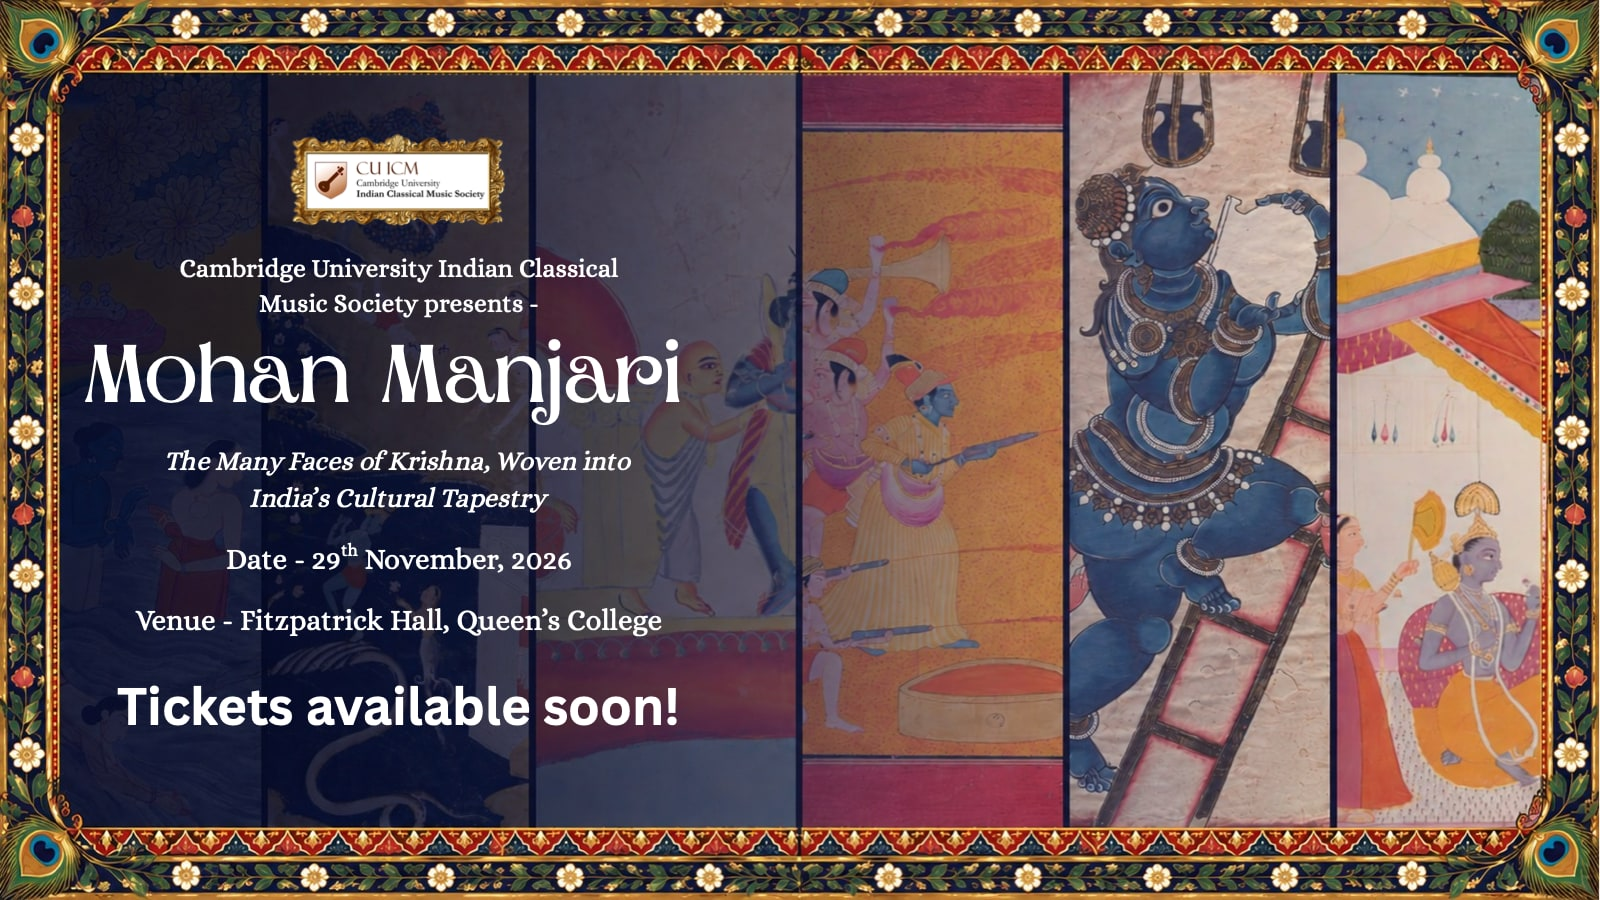
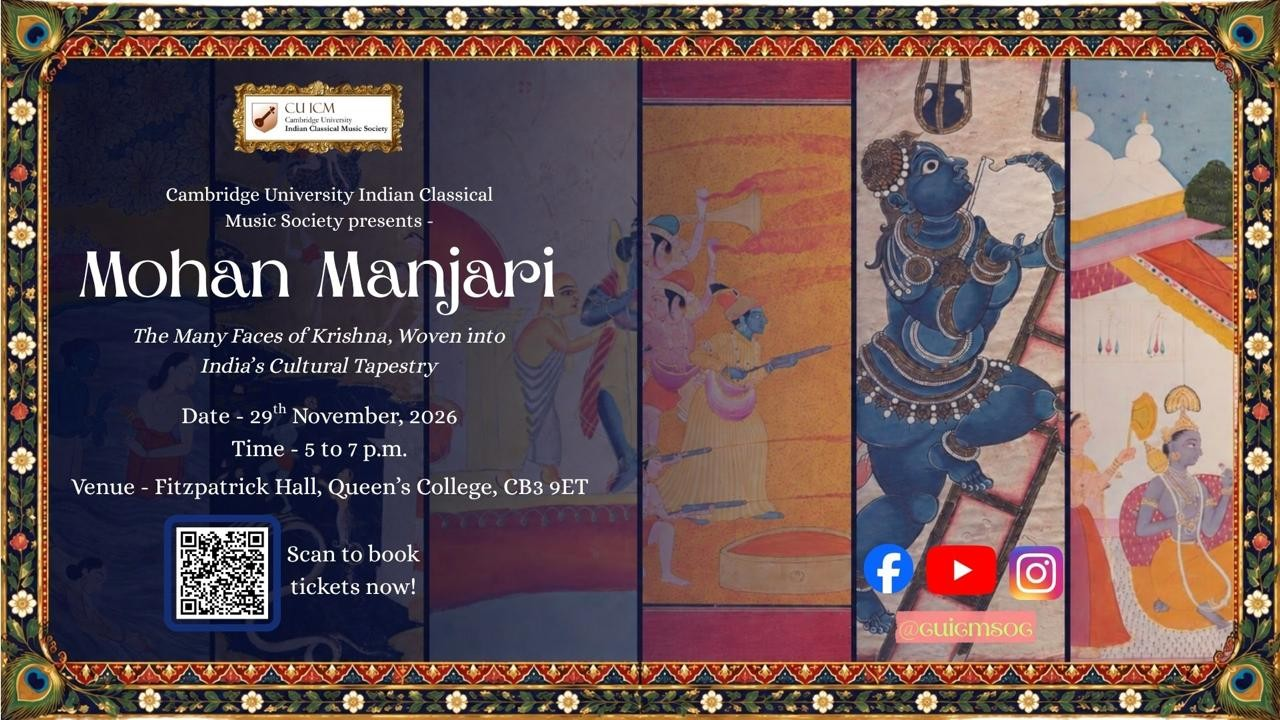
Mohan Manjari: new poster and refund wording (#60)
Replaces the event image with the updated poster (time, QR code for
booking, social handle) and changes 'mail' to 'e-mail us' in the
refund policy.

diff --git a/src/content/events/mohan-manjari.md b/src/content/events/mohan-manjari.md
@@ -14,13 +14,13 @@ venue:
   mapUrl: https://maps.app.goo.gl/d3jBHyTjCt9DFBXw5
 image:
   src: ../../assets/images/mohan-manjari-poster.jpg
-  alt: Poster for Mohan Manjari, framed by a floral border with peacock feathers, showing traditional Indian paintings of Krishna — playing the flute, climbing a ladder to a hanging pot of butter, and seated with attendants.
+  alt: Poster for Mohan Manjari, 29 November 2026, 5 to 7 p.m., Fitzpatrick Hall, Queens’ College — framed by a floral border with peacock feathers, with traditional Indian paintings of Krishna, a QR code to book tickets, and the society’s social media handle @cuicmsoc.
 brochure: /brochures/mohan-manjari.pdf
 brochureLabel: poster
 ticketUrl: https://cuicms.checkoutpage.com/mohan-manjari-the-many-faces-of-krishna-woven-into-indias-cultural-tapestry
 ticketProvider: other
 priceInfo: £9 members / £11 non-members
-refundPolicy: Refunds are available on request if you mail at least 48 hours before the start of the event. Approved refunds will be processed after the concert.
+refundPolicy: Refunds are available on request if you e-mail us at least 48 hours before the start of the event. Approved refunds will be processed after the concert.
 status: scheduled
 featured: true
 draft: false
